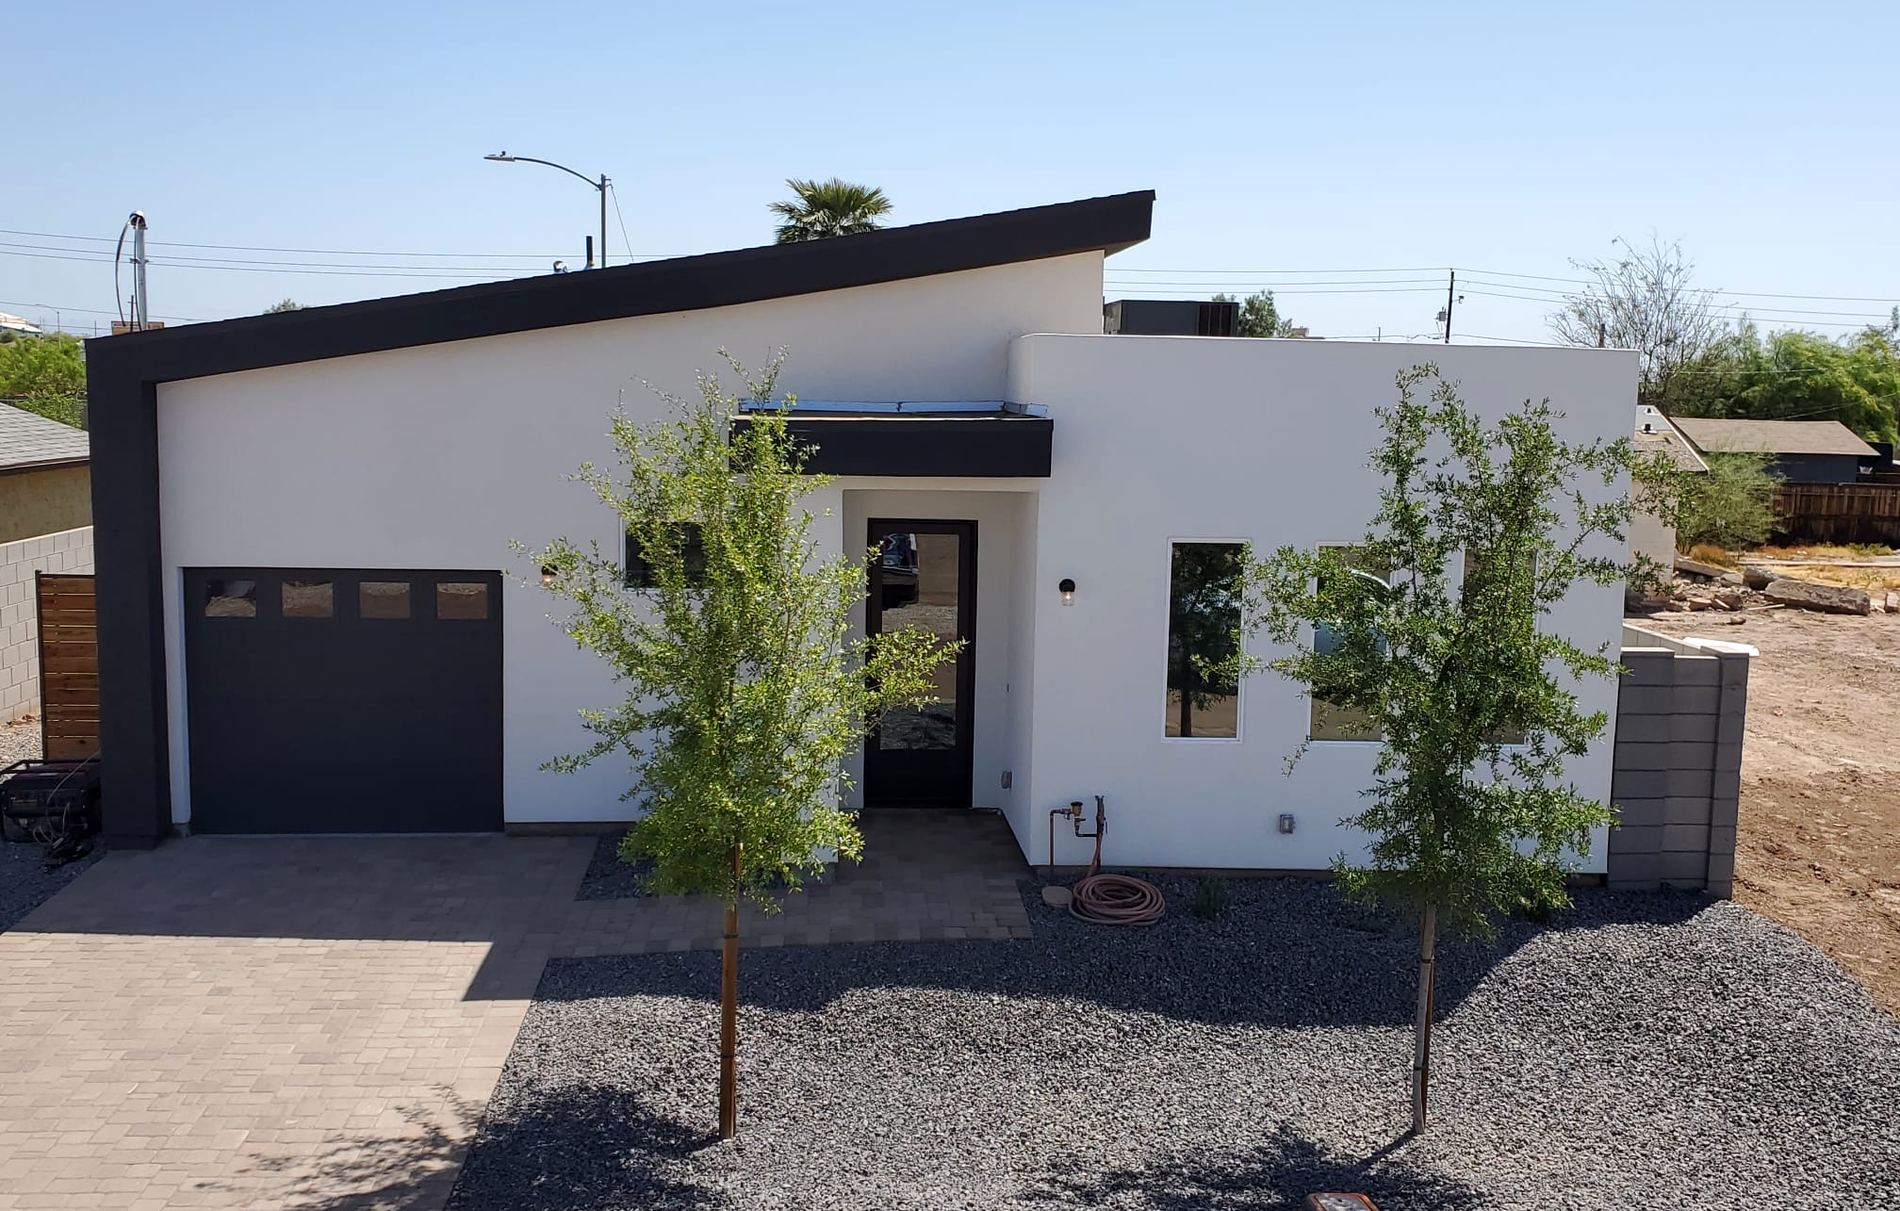
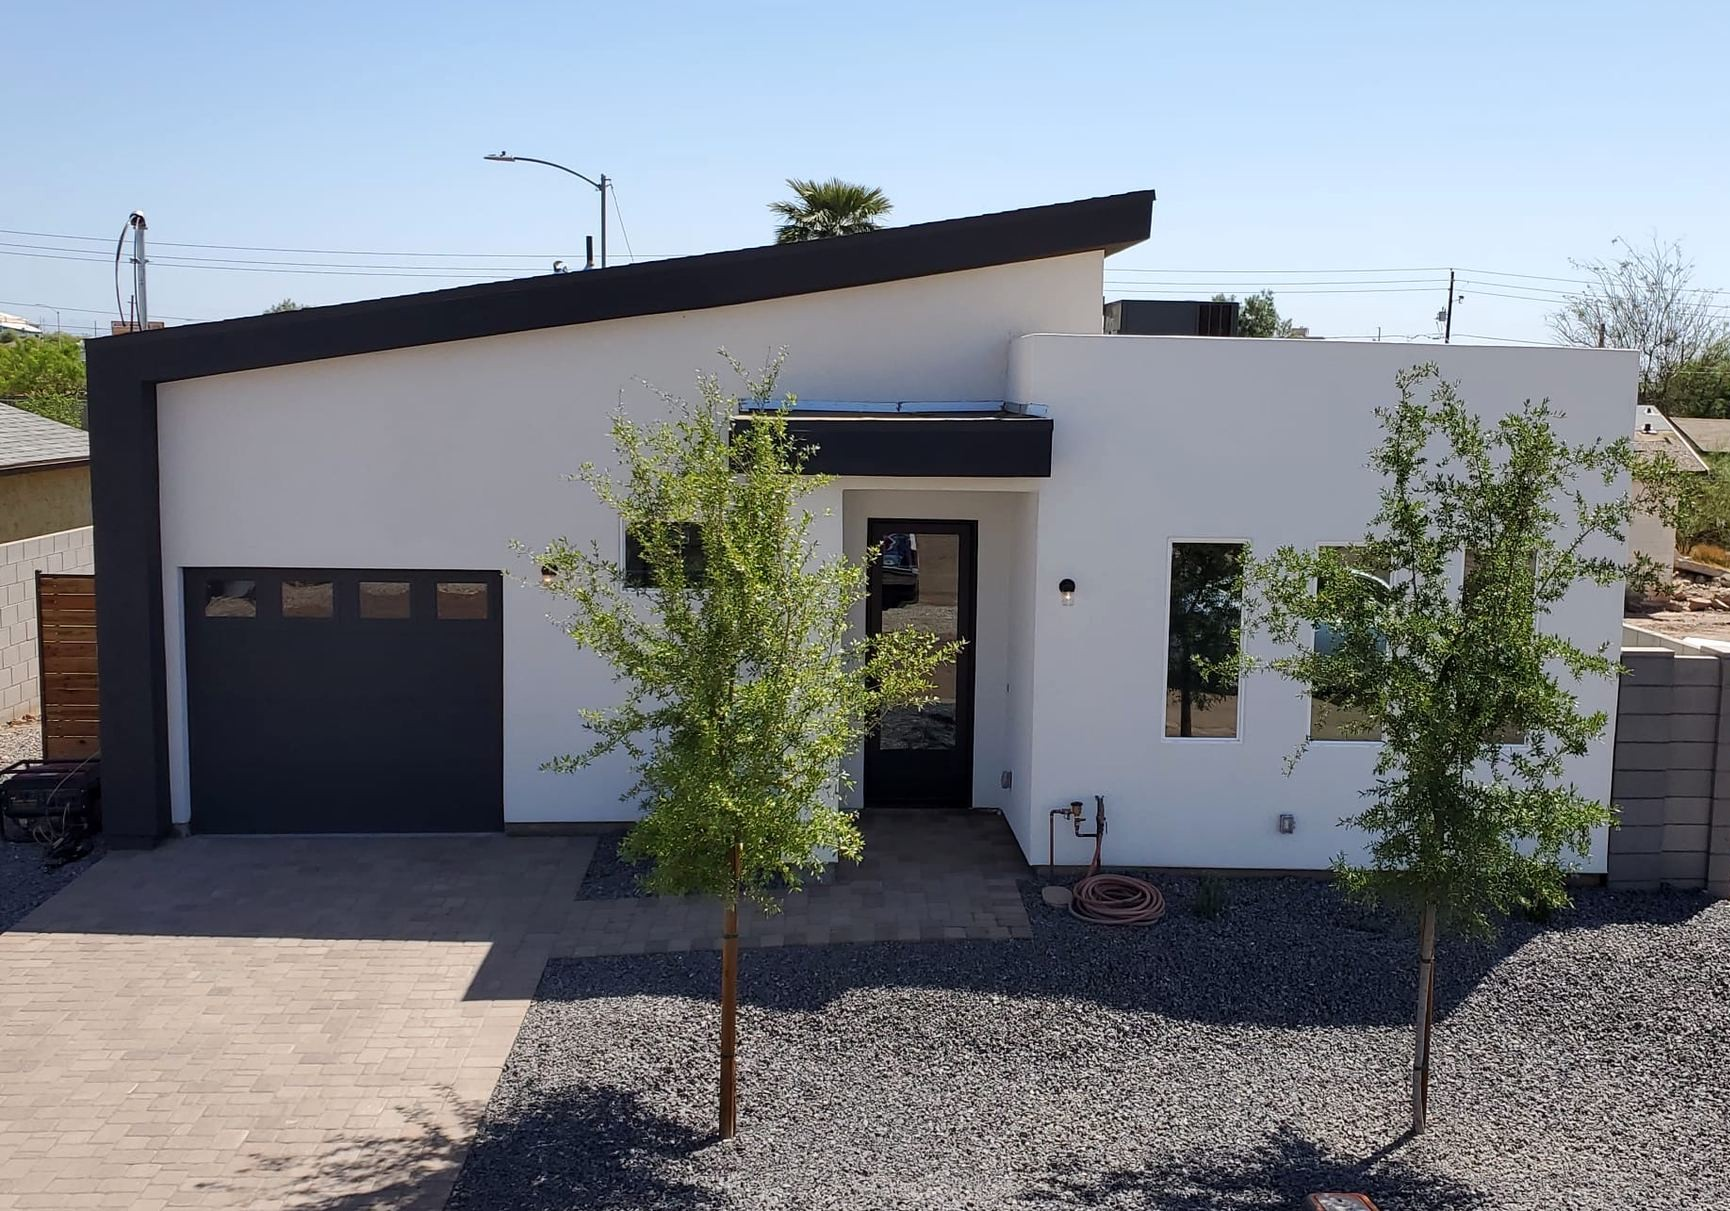
Hero: smooth crossfade between photos; crop hero-2 to remove the dirt lot
Claude-Session: https://claude.ai/code/session_012gVSS5rsFqbprbJEjW8uMU

diff --git a/index.html b/index.html
@@ -177,9 +177,10 @@ body::before{content:'';position:fixed;inset:0;z-index:-1;pointer-events:none;ba
 .hw>.shade::before{opacity:.9}
 .hz{position:relative;z-index:1;min-height:94vh;min-height:94svh;display:flex;flex-direction:column;justify-content:center;padding-top:132px}
 .slides,.hov{position:absolute;inset:0 0 -220px 0;z-index:0;-webkit-mask-image:linear-gradient(180deg,#000 44%,rgba(0,0,0,.6) 70%,rgba(0,0,0,.18) 88%,transparent 100%);mask-image:linear-gradient(180deg,#000 44%,rgba(0,0,0,.6) 70%,rgba(0,0,0,.18) 88%,transparent 100%)}
-.hslide{position:absolute;inset:0;background-size:cover;background-position:center 42%;opacity:0;animation:hs 27s infinite;filter:saturate(.86) contrast(1.03)}
-.hslide:nth-child(1){opacity:1}.hslide:nth-child(2){animation-delay:9s}.hslide:nth-child(3){animation-delay:18s}
-@keyframes hs{0%{opacity:1}30%{opacity:1}38%{opacity:0}92%{opacity:0}100%{opacity:1}}
+.hslide{position:absolute;inset:0;background-size:cover;background-position:center 42%;opacity:0;animation:hs 27s linear infinite both;filter:saturate(.86) contrast(1.03)}
+/* true crossfade: each photo fades in while the one before it fades out (2.2s, eased) */
+.hslide:nth-child(1){opacity:1;animation-delay:-2.2s}.hslide:nth-child(2){animation-delay:6.8s}.hslide:nth-child(3){animation-delay:15.8s}
+@keyframes hs{0%{opacity:0;animation-timing-function:ease-in-out}8.15%{opacity:1}33.33%{opacity:1;animation-timing-function:ease-in-out}41.48%{opacity:0}100%{opacity:0}}
 /* warm taupe grade over the photo so hero and who share one colour */
 .hov{background:
   linear-gradient(100deg,rgba(28,27,27,.9) 0%,rgba(33,31,30,.6) 46%,rgba(36,34,33,.18) 100%),
